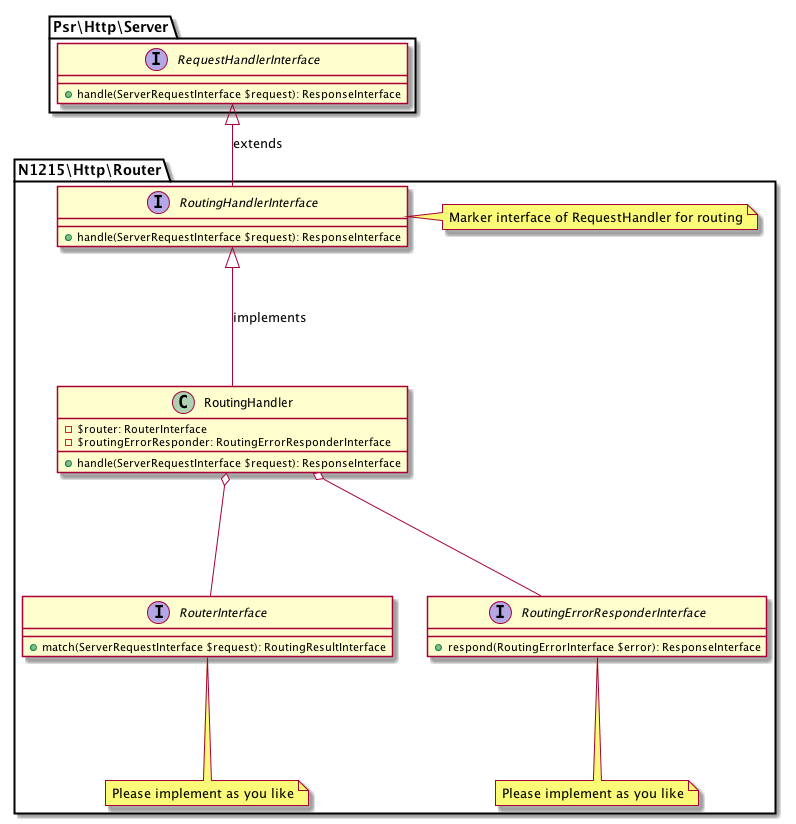
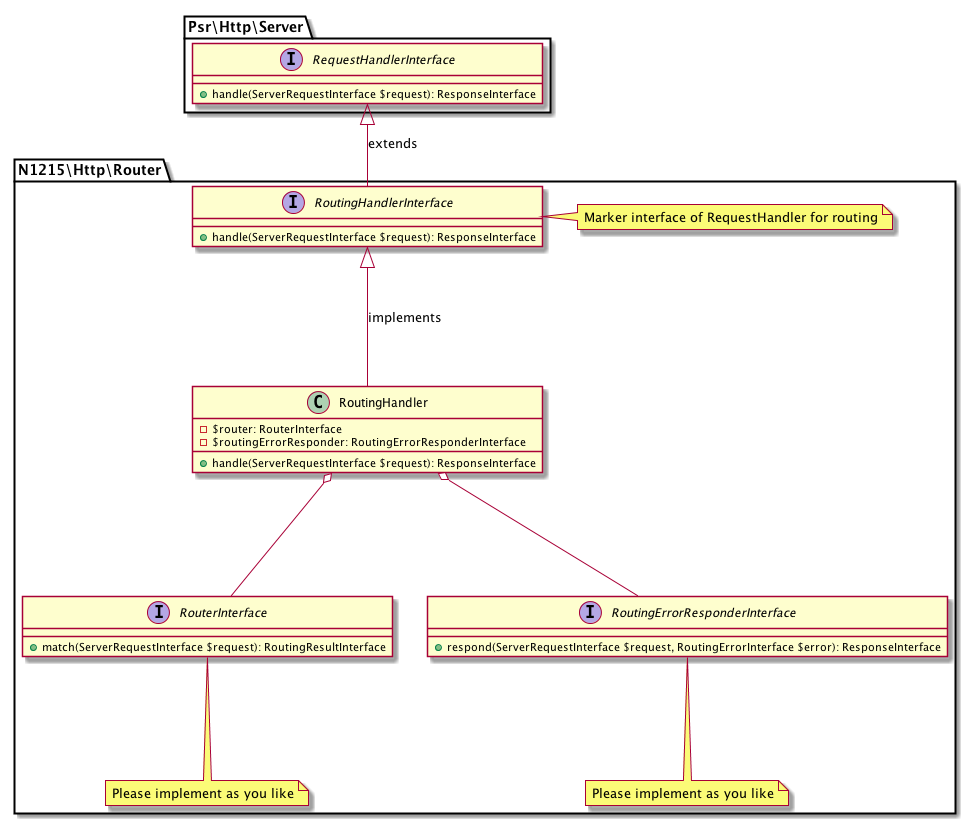
fix interface

diff --git a/README.md b/README.md
@@ -27,7 +27,7 @@ class YourRouter implements N1215\Http\Router\RouterInterface
 // 2. Implement RoutingErrorResponderInterface.
 class YourRoutingErrorResponder implements N1215\Http\Router\RoutingErrorResponderInterface
 {
-    public function respond(RoutingErrorInterface $error): ResponseInterface
+    public function respond(ServerRequestInterface $request, RoutingErrorInterface $error): ResponseInterface
     {
         // implement
     }
@@ -47,8 +47,8 @@ $response = $routingHandler->handle($request);
 ```
 
 ## Implementation examples
-* Router -> [n1215/hakudo](https://github.com/n1215/hakudo/blob/v0.2.0/src/Router.php)
-* RoutingErrorHandler -> [n1215/tsukuyomi-demo](https://github.com/n1215/tsukuyomi-demo/blob/v0.1.0/app/Http/Routing/RoutingErrorResponder.php)
+* Router -> [n1215/hakudo](https://github.com/n1215/hakudo/blob/v0.3.0/src/Router.php)
+* RoutingErrorHandler -> [n1215/tsukuyomi-demo](https://github.com/n1215/tsukuyomi-demo/blob/v0.2.0/app/Http/Routing/RoutingErrorResponder.php)
 
 ## Class diagrams
 
